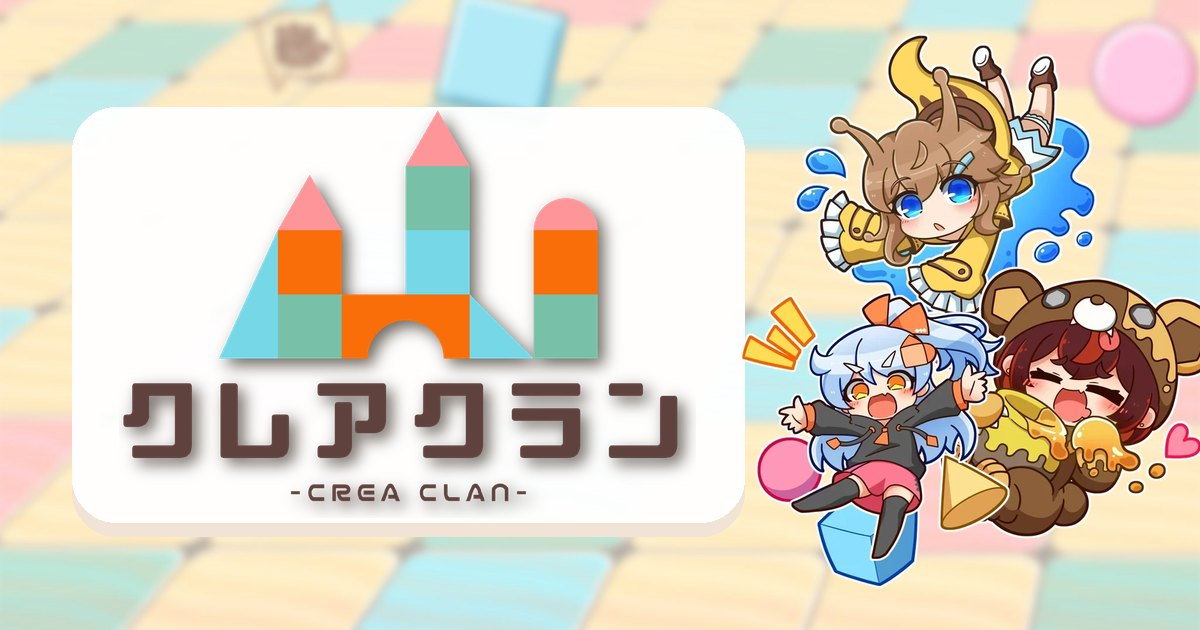
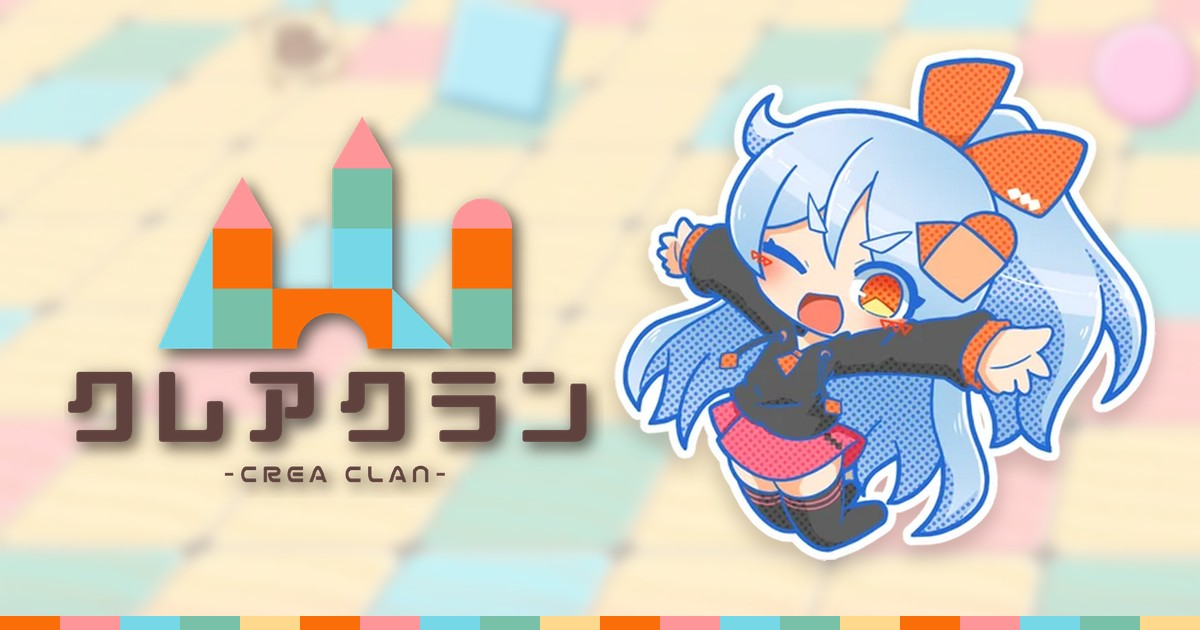
リンクを貼ったときのサムネ画像（OGP）を新しくする
- ぼかした積み木の床に、左にロゴ、右に名刺デザインのクレア（背景透過）を配置
- og:image に ?v= を付け、サイズと代替テキストも指定（X などのキャッシュ対策）

Claude-Session: https://claude.ai/code/session_01NyQoEjEpCLPaZnm1V9Erc7

diff --git a/index.html b/index.html
@@ -12,7 +12,10 @@
   <meta property="og:title" content="クレアクラン（CREA CLAN）公式サイト">
   <meta property="og:description" content="「kawaii」をテーマに、カラフルポップでクセになるゲームを作るインディーゲームサークル「クレアクラン」の公式サイト。『ガーデンハント』『トラップス』『走れ！クレアちゃん』などの作品情報や、イベント出展・グッズなどの最新ニュースをお届けします。">
   <meta property="og:url" content="https://kamiena.github.io/CreaClan/">
-  <meta property="og:image" content="https://kamiena.github.io/CreaClan/assets/img/ogp.jpg">
+  <meta property="og:image" content="https://kamiena.github.io/CreaClan/assets/img/ogp.jpg?v=20261114">
+  <meta property="og:image:width" content="1200">
+  <meta property="og:image:height" content="630">
+  <meta property="og:image:alt" content="クレアクラン（CREA CLAN）のロゴと、看板娘のクレア">
   <meta property="og:locale" content="ja_JP">
   <meta name="twitter:card" content="summary_large_image">
   <meta name="twitter:site" content="@creaclan_game">

diff --git a/404.html b/404.html
@@ -15,7 +15,10 @@
   <meta property="og:title" content="ページが見つかりません｜クレアクラン（CREA CLAN）">
   <meta property="og:description" content="お探しのページは見つかりませんでした。">
   <meta property="og:url" content="https://kamiena.github.io/CreaClan/404.html">
-  <meta property="og:image" content="https://kamiena.github.io/CreaClan/assets/img/ogp.jpg">
+  <meta property="og:image" content="https://kamiena.github.io/CreaClan/assets/img/ogp.jpg?v=20261114">
+  <meta property="og:image:width" content="1200">
+  <meta property="og:image:height" content="630">
+  <meta property="og:image:alt" content="クレアクラン（CREA CLAN）のロゴと、看板娘のクレア">
   <meta property="og:locale" content="ja_JP">
   <meta name="twitter:card" content="summary_large_image">
   <meta name="twitter:site" content="@creaclan_game">

diff --git a/README.md b/README.md
@@ -177,7 +177,9 @@ tools/
   - `assets/img/logo/logo-h-120.webp`・`logo-h-240.webp`：いただいたロゴの積み木と、横書きの文字ロゴ（小さめ・薄いドロップシャドウ）を横に並べたもの（ヘッダー用）
   - `assets/img/works/new/kv.webp`・`assets/img/pickup/new.webp`：積み木の床＋はてなマークの積み木（開発中の新作用）
   - `assets/img/contents/x-crea.webp`・`kamiena.webp`：正方形のイラストをそのまま中央に置き、左右を同じ画像のぼかしで広げたもの（16:9 の枠に見切れずに収めるため）
-  - `assets/img/ogp.jpg`・`assets/img/news/2026-10-14-renewal.webp`：積み木の床＋ロゴ＋看板娘3人（SNS でシェアされたときの画像）
+  - `assets/img/ogp.jpg`：ぼかした積み木の床＋ロゴ（左）＋名刺デザインのクレア（右、背景透過の画像）。リンクを貼ったときのサムネ（1200×630）
+    - 差し替えたら `index.html` と `404.html` の `og:image` の `?v=` を新しい日付にする（X などに古い画像が残らないように）
+  - `assets/img/news/2026-10-14-renewal.webp`：積み木の床＋ロゴ＋看板娘3人
   - `assets/img/news/prj-rain.webp`：正方形の画像の左右を、同じ画像のぼかしで埋めたもの
 - `assets/img/logo/mark.svg`・`favicon.svg` は、ロゴの積み木を図形で描き直したもの（形・色はロゴと同じ）です。
 
